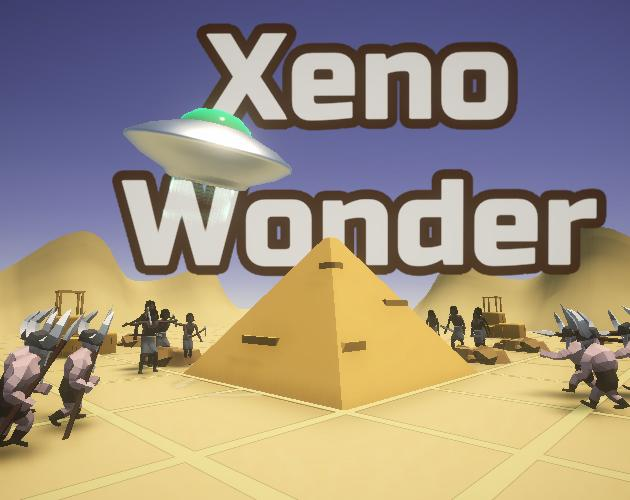
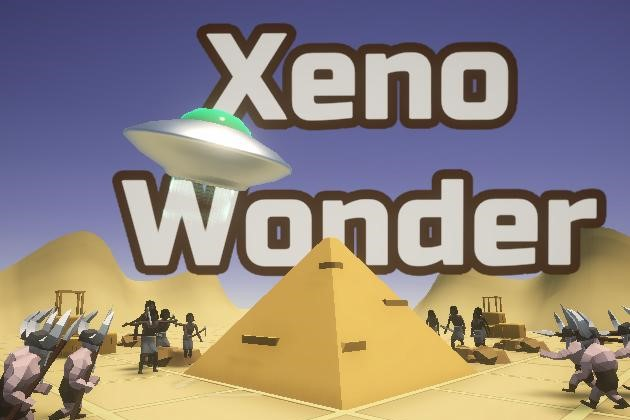
fixed xeno wonder image to fit in container

diff --git a/pages/work_style.css b/pages/work_style.css
@@ -55,7 +55,7 @@ header
     top: 0;
     background-color:#000;
     opacity:0.9;
-    box-shadow: 0px 4px 6px #ececec;
+    box-shadow: 0px 4px 6px #9c9c9c;
   }
   
   .hover-text {
